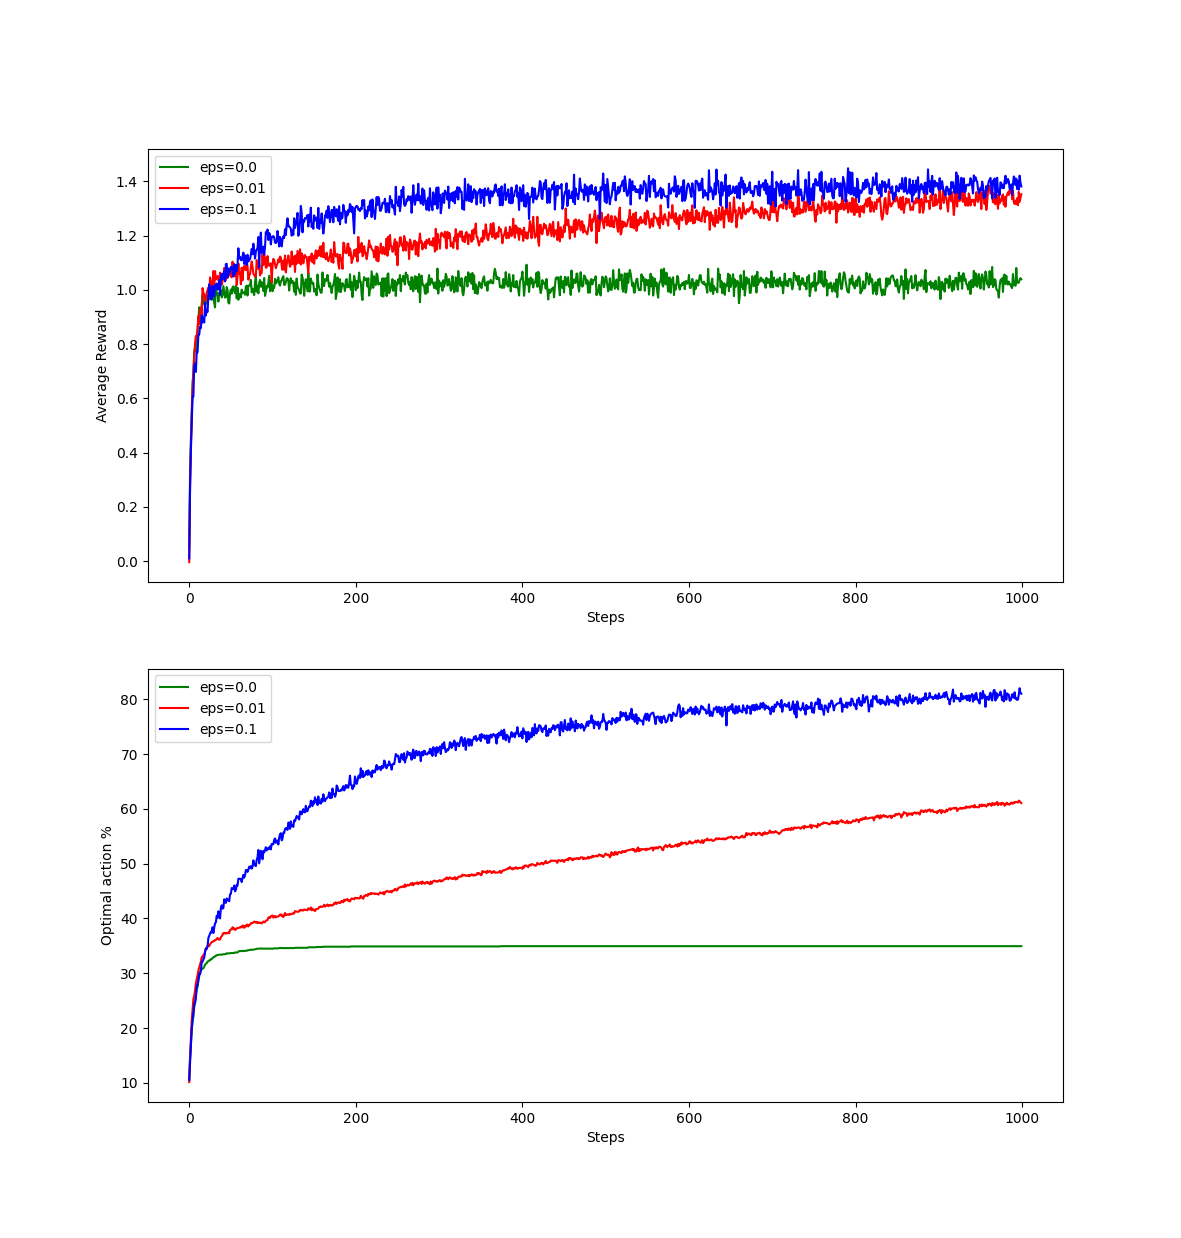
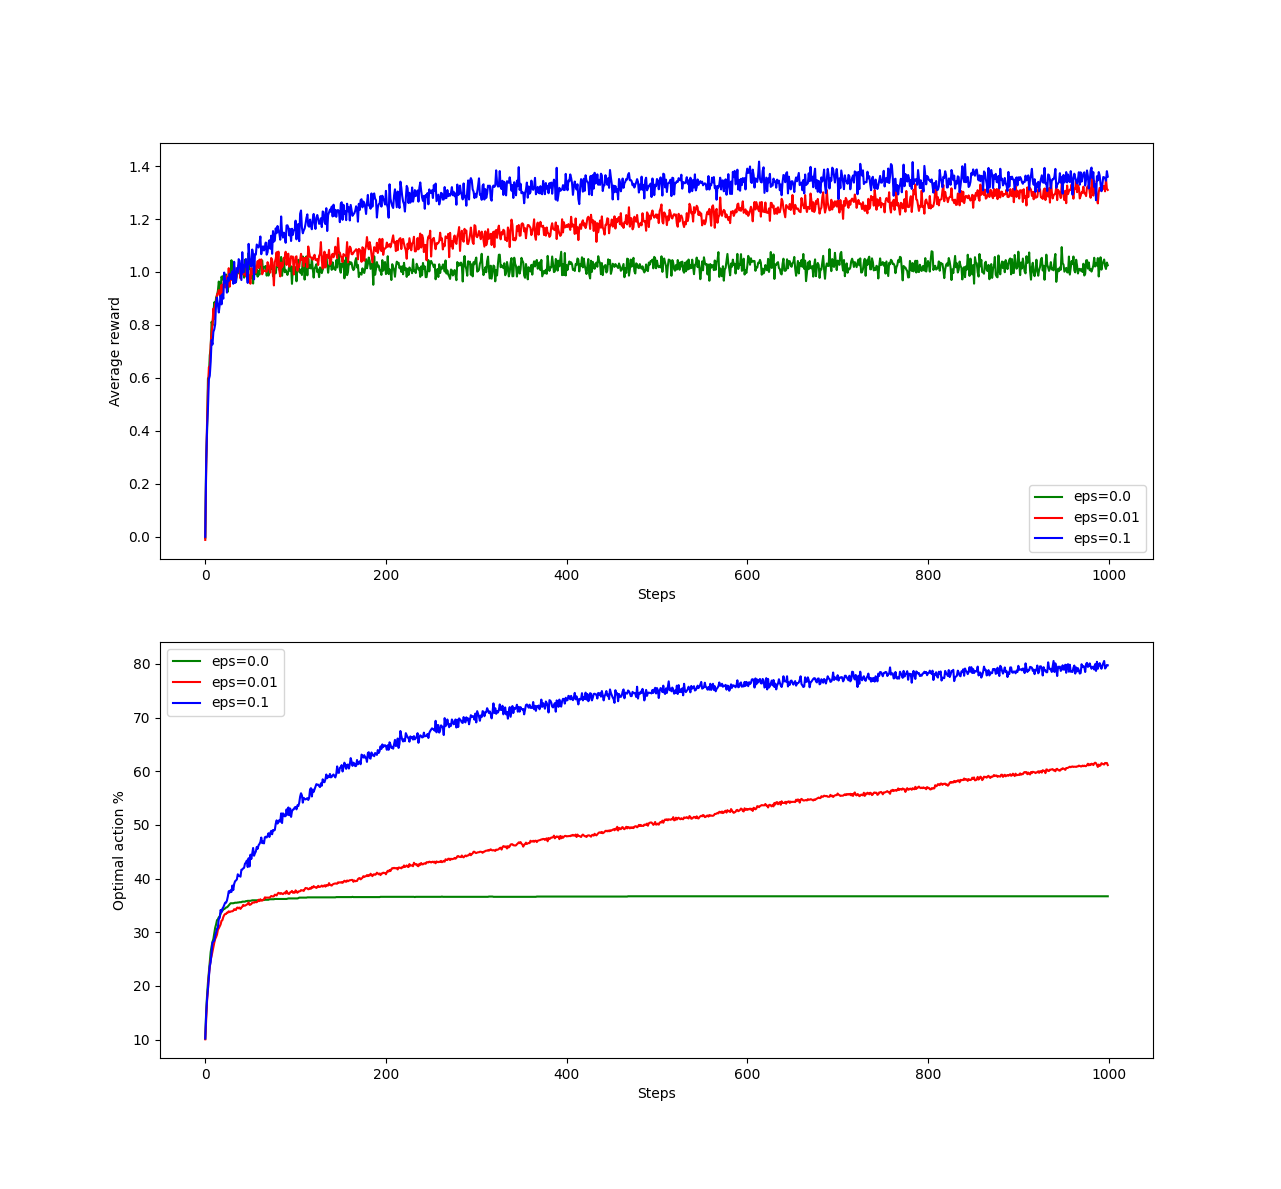
Refactor 2.4 & 2.5 to use utility

diff --git a/Part-I/2. Multi-armed Bandits/2.5 The 10-armed Testbed Constant vs Sample-Average/main.py b/Part-I/2. Multi-armed Bandits/2.5 The 10-armed Testbed Constant vs Sample-Average/main.py
@@ -2,77 +2,12 @@ import numpy as np
 import matplotlib.pyplot as plt
 from tqdm import tqdm
 
-def argmax(array):
-    """
-    The numpy argmax function breaks ties by choosing the first occurence. This implementation breaks ties uniformly at random.
-    """
-    assert (len(array.shape) == 1), "argmax expects a 1d array"
-    assert (array.size > 0),        "argmax expects non-empty array"
-
-    indices = []
-    best = float('-inf')
-    for i in range(len(array)):
-        if array[i] > best:
-            best = array[i]
-            indices = [i]
-        elif array[i] == best:
-            indices.append(i)
-    return np.random.choice(indices)
-
-class Agent(object):
-    def __init__(self, k):
-        self.k = k
-        self.reset()
-
-    def select_action(self):
-        pass
-
-    def update_action(self, action, value):
-        self.N[action] += 1
-        self.Q[action] += (1.0 / self.N[action]) * (value - self.Q[action])
-
-    def reset(self):
-        self.Q = np.zeros(self.k)
-        self.N = np.zeros(self.k, dtype=int)
-
-class EpsilonGreedy(Agent):
-    def __init__(self, k, epsilon):
-        super(EpsilonGreedy, self).__init__(k)
-        self.epsilon = epsilon
-    
-    def select_action(self):
-        if np.random.rand() < self.epsilon:
-            return np.random.randint(0, self.k)
-        else:
-            return argmax(self.Q)
-
-class ConstantEpsilonGreedy(EpsilonGreedy):
-    def __init__(self, k, epsilon, alpha):
-        super(ConstantEpsilonGreedy, self).__init__(k, epsilon)
-        self.alpha = alpha
-    
-    def update_action(self, action, value):
-        self.N[action] += 1
-        self.Q[action] += self.alpha * (value - self.Q[action])
-
-class MovingKArmedBandits(object):
-    def __init__(self, k, variance=1.0, moving_variance=0.01):
-        self.k = k
-        self.variance = variance
-        self.moving_variance = moving_variance
-        self.reset()
-
-    def draw(self, action):
-        return np.random.normal(loc=self.q[action], scale=self.variance)
-    
-    def move(self):
-        self.q += np.random.normal(scale=self.moving_variance, size=self.q.shape)
-
-    def best_action(self):
-        return np.argmax(self.q)
-
-    def reset(self):
-        self.q = np.ones(self.k) * np.random.normal(scale=self.variance)
+import sys, os
+sys.path.insert(1, os.path.realpath(os.path.pardir))
+from utility.action_selectors import *
+from utility.agent import *
+from utility.environments import *
+from utility.q_approximators import *
 
 # PARAMETERS
 K = 10
@@ -80,7 +15,10 @@ VARIANCE = 1.0
 MOVING_VARIANCE = 0.01
 NUM_RUNS = 2000
 STEPS = 10000
-AGENTS = [ConstantEpsilonGreedy(K, 0.1, 0.1), EpsilonGreedy(K, 0.1)]
+AGENTS = [
+    Agent(K, EpsilonGreedyActionSelector(0.1), QConstant(K, 0.1)),
+    Agent(K, EpsilonGreedyActionSelector(0.1), QSampleAvg(K))
+]
 COLOURS = ['r', 'b']
 LABELS = ['Constant', 'Sample Avg']
 
@@ -109,12 +47,11 @@ if __name__ == "__main__":
     best_action_precentage = np.average(best_action_precentage, axis=0)
 
     fig, axs = plt.subplots(2)
-    for i in range(len(AGENTS)):
+    for i in range(len(agents)):
         axs[0].plot(average_reward[:, i], color=COLOURS[i], label=LABELS[i])
         axs[1].plot(best_action_precentage[:, i], color=COLOURS[i], label=LABELS[i])
-    axs[0].set(ylabel='Average Reward', xlabel='Steps')
+    axs[0].set(ylabel='Average reward', xlabel='Steps')
     axs[1].set(ylabel='Optimal action %', xlabel='Steps')
     axs[0].legend()
     axs[1].legend()
     plt.show()
-        

diff --git a/Part-I/2. Multi-armed Bandits/2.4 The 10-armed Testbed Epsilon Greedy/main.py b/Part-I/2. Multi-armed Bandits/2.4 The 10-armed Testbed Epsilon Greedy/main.py
@@ -2,77 +2,29 @@ import numpy as np
 import matplotlib.pyplot as plt
 from tqdm import tqdm
 
-def argmax(array):
-    """
-    The numpy argmax function breaks ties by choosing the first occurence. This implementation breaks ties uniformly at random.
-    """
-    assert (len(array.shape) == 1), "argmax expects a 1d array"
-    assert (array.size > 0),        "argmax expects non-empty array"
-
-    indices = []
-    best = float('-inf')
-    for i in range(len(array)):
-        if array[i] > best:
-            best = array[i]
-            indices = [i]
-        elif array[i] == best:
-            indices.append(i)
-    return np.random.choice(indices)
-
-class Agent(object):
-    def __init__(self, k):
-        self.k = k
-        self.reset()
-
-    def select_action(self):
-        pass
-
-    def update_action(self, action, value):
-        self.N[action] += 1
-        self.Q[action] += (1.0 / self.N[action]) * (value - self.Q[action])
-
-    def reset(self):
-        self.Q = np.zeros(self.k)
-        self.N = np.zeros(self.k, dtype=int)
-
-class EpsilonGreedy(Agent):
-    def __init__(self, k, epsilon):
-        super(EpsilonGreedy, self).__init__(k)
-        self.epsilon = epsilon
-    
-    def select_action(self):
-        if np.random.rand() < self.epsilon:
-            return np.random.randint(0, self.k)
-        else:
-            return argmax(self.Q)
-
-class KArmedBandits(object):
-    def __init__(self, k, variance=1.0):
-        self.k = k
-        self.variance = variance
-        self.reset()
-
-    def draw(self, action):
-        return np.random.normal(loc=self.q[action], scale=self.variance)
-
-    def best_action(self):
-        return np.argmax(self.q)
-
-    def reset(self):
-        self.q = np.random.normal(scale=self.variance, size=self.k)
+import sys, os
+sys.path.insert(1, os.path.realpath(os.path.pardir))
+from utility.action_selectors import *
+from utility.agent import *
+from utility.environments import *
+from utility.q_approximators import *
 
 # PARAMETERS
 K = 10
 VARIANCE = 1.0
 NUM_RUNS = 2000
 STEPS = 1000
-EPSILONS = [0.0, 0.01, 0.1]
+AGENTS = [
+    Agent(K, GreedyActionSelector(), QSampleAvg(K)),
+    Agent(K, EpsilonGreedyActionSelector(0.01), QSampleAvg(K)),
+    Agent(K, EpsilonGreedyActionSelector(0.1), QSampleAvg(K))
+]
 COLOURS = ['g', 'r', 'b']
 LABELS = ['eps=0.0', 'eps=0.01', 'eps=0.1']
 
 if __name__ == "__main__":
-    agents = [EpsilonGreedy(K, i) for i in EPSILONS]
-    bandits = KArmedBandits(K, VARIANCE)
+    agents = AGENTS
+    bandits = StationaryKArmedBandits(K, VARIANCE)
     average_reward = np.zeros((NUM_RUNS, STEPS, len(agents)))
     best_action_precentage = np.zeros((NUM_RUNS, STEPS, len(agents)))
     for i in tqdm(range(NUM_RUNS)):
@@ -94,12 +46,11 @@ if __name__ == "__main__":
     best_action_precentage = np.average(best_action_precentage, axis=0)
 
     fig, axs = plt.subplots(2)
-    for i in range(len(EPSILONS)):
+    for i in range(len(agents)):
         axs[0].plot(average_reward[:, i], color=COLOURS[i], label=LABELS[i])
         axs[1].plot(best_action_precentage[:, i], color=COLOURS[i], label=LABELS[i])
-    axs[0].set(ylabel='Average Reward', xlabel='Steps')
+    axs[0].set(ylabel='Average reward', xlabel='Steps')
     axs[1].set(ylabel='Optimal action %', xlabel='Steps')
     axs[0].legend()
     axs[1].legend()
     plt.show()
-        
